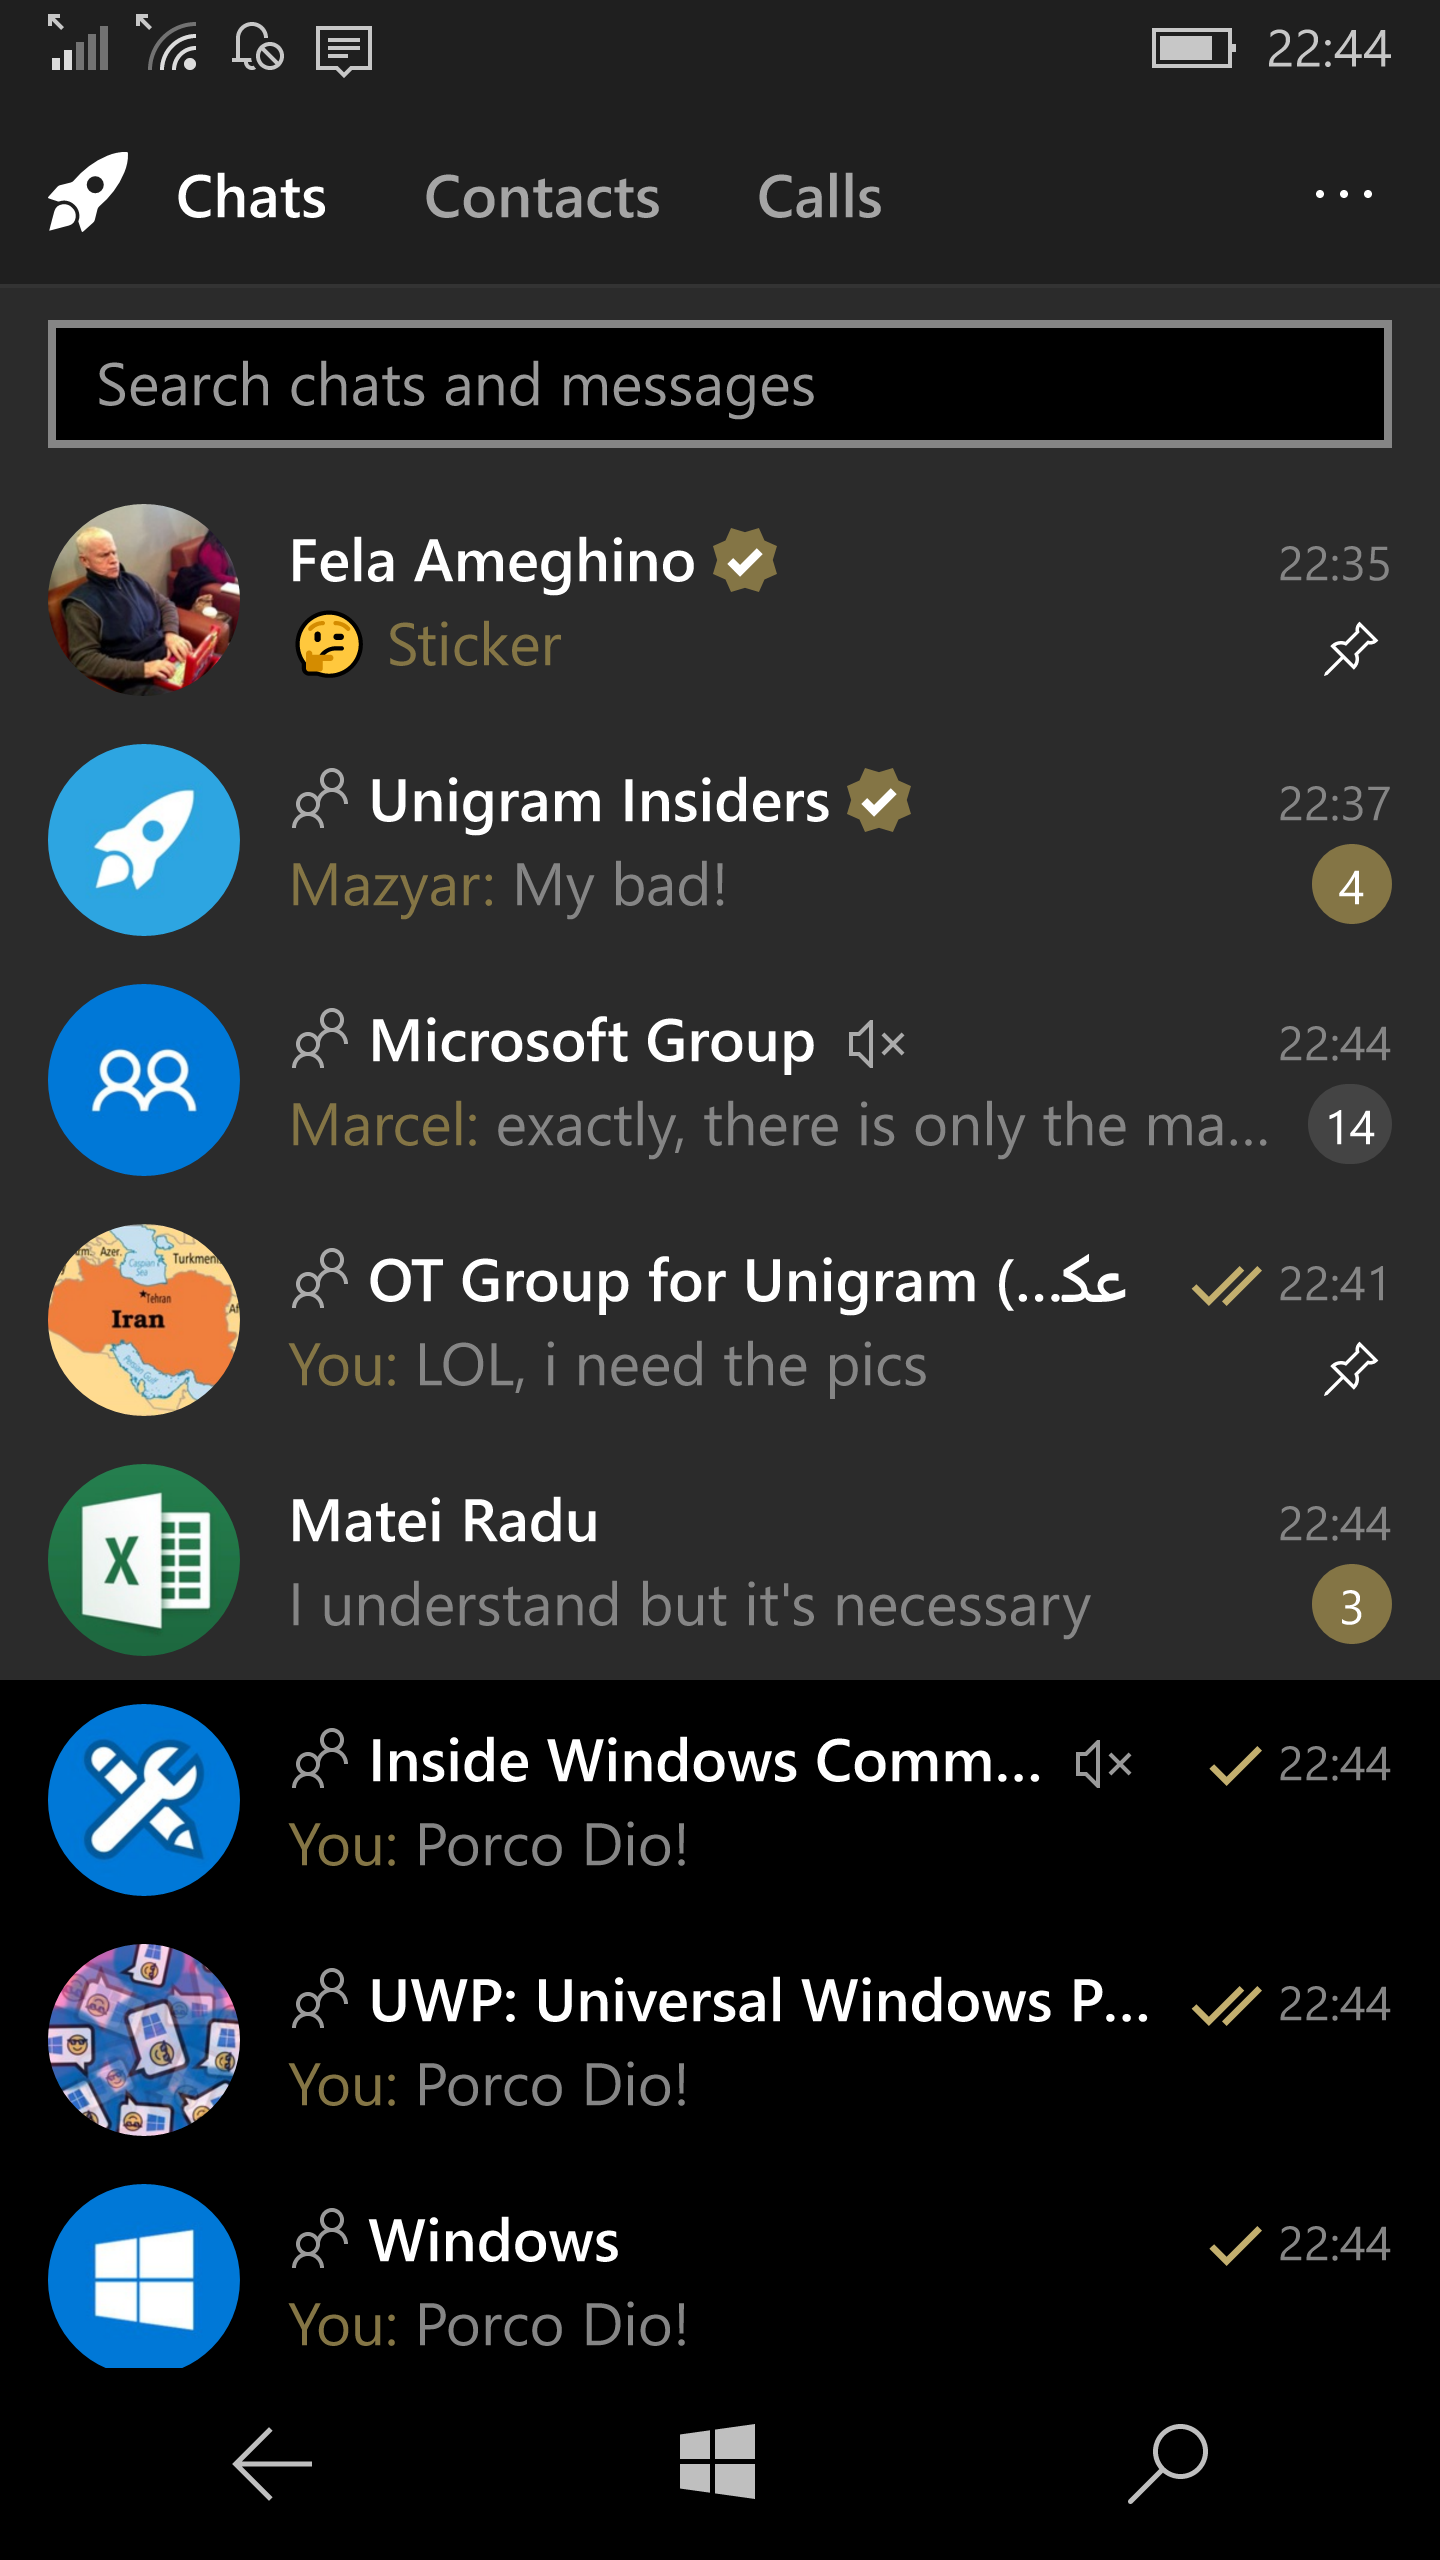
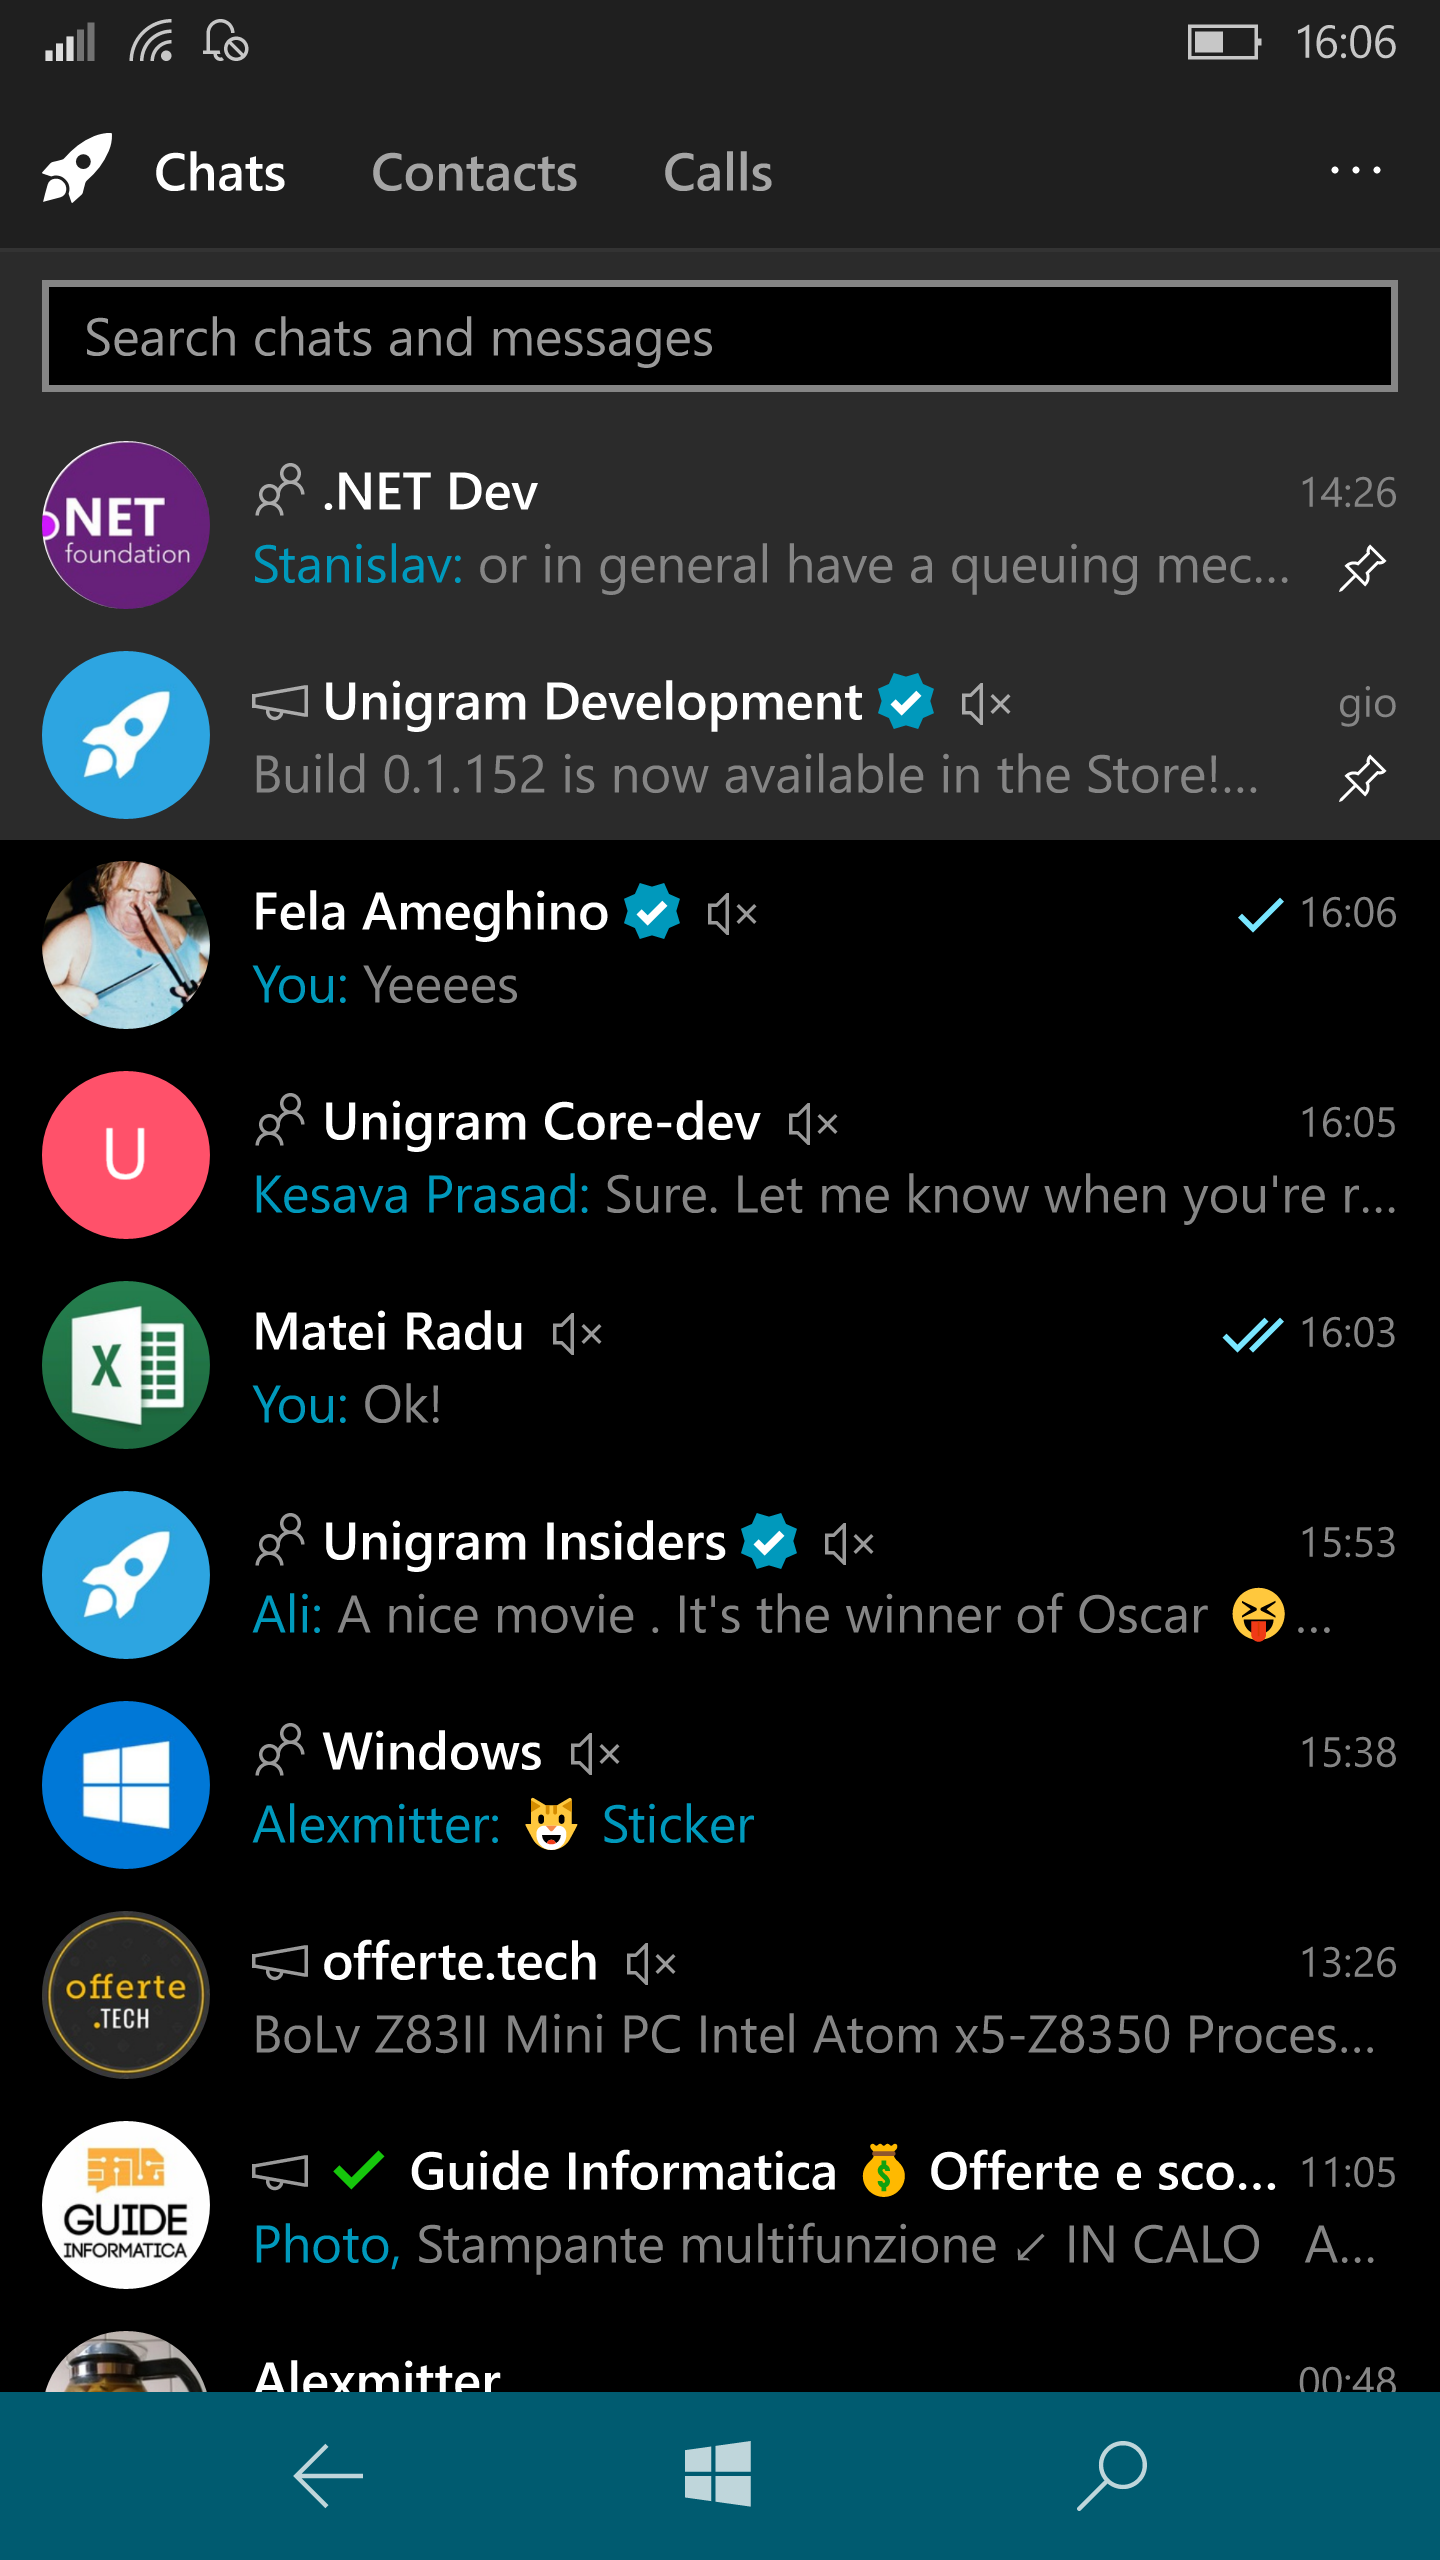
Added new screenshots.

diff --git a/index.html b/index.html
@@ -133,13 +133,16 @@
                                                 <img class="img-fluid" src="img/screenshots/screen-mobile-chat-1.png" alt="Single chat">
                                             </div>
                                             <div class="carousel-item">
-                                                <img class="img-fluid" src="img/screenshots/screen-mobile-gif-1.png" alt="GIF and Sticker Panel">
+                                                <img class="img-fluid" src="img/screenshots/screen-mobile-stickers-1.png" alt="GIF and Sticker Panel">
                                             </div>
                                             <div class="carousel-item">
                                                 <img class="img-fluid" src="img/screenshots/screen-mobile-list-1.png" alt="Chat list">
                                             </div>
                                             <div class="carousel-item">
-                                                <img class="img-fluid" src="img/screenshots/screen-mobile-notification-1.png" alt="Notifications">
+                                                <img class="img-fluid" src="img/screenshots/screen-mobile-group-2.png" alt="Group chat">
+                                            </div>
+                                            <div class="carousel-item">
+                                                <img class="img-fluid" src="img/screenshots/screen-mobile-notifications-1.png" alt="Notifications">
                                             </div>
                                             <div class="carousel-item">
                                                 <img class="img-fluid" src="img/screenshots/screen-mobile-livetile-1.png" alt="Live tile">
